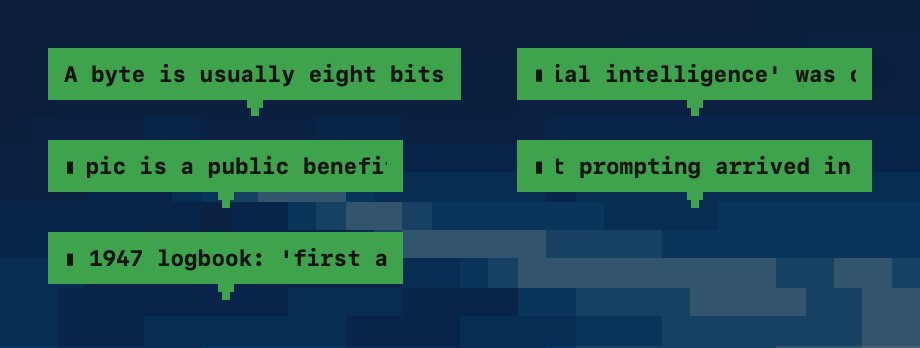
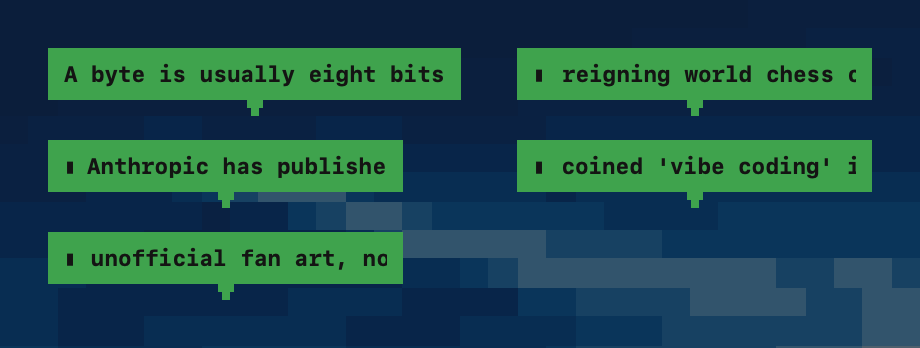
The placements get a voice
The operator's verdict on the first pass: structurally right, editorially flat
— "not quite happy with them as product placements." Three things fix that.

**Twelve facts now wear an emoji.** The pool had exactly none — every emoji in
the app lived in his own voice lines — so the "put in ones with an emoji" ask
meant an editing pass, not a better pick. Edited in place: same lines, same
order, same source notes, no additions, so the mix, dedupe and count tests hold
untouched. The Anthropic pool got the densest treatment, per the ask, and every
edited line stays inside the 69-character duration budget.

**The costume strip has a script.** One caption for ten seconds becomes three
beats, and the middle one is the skate shout — "Tony Clawd 900 🦅", the real
line from the kickflip deck, timed from pop to landing. A character moment
instead of a subtitle. The outer beats are Anthropic facts wearing their new
emoji, each beat's clock restarting at its own zero so a ticker opens on its
first word, and each marquee beat long enough for its line to finish scrolling
— asserted, not hoped. The white crab also switches wiggle → wave, because two
crabs doing the same idle reads as one animation stamped twice.

**Every shown line is real.** The beats test binds the shout to
`Vocab.lines(for: .kickflip)` and the facts to `FunFacts.all`; `renderFacts`
guards the same at render time. The sheets show what he says, not marketing
[…]

diff --git a/Sources/ClaudePet/App/ReelRenderer.swift b/Sources/ClaudePet/App/ReelRenderer.swift
@@ -274,6 +274,8 @@ enum ReelRenderer {
             && renderProps(to: root.appendingPathComponent("props.png"))
             && renderFacts(to: root.appendingPathComponent("facts.png"))
             && renderCostumes(to: root.appendingPathComponent("costumes.gif"))
+            && renderWordmark(to: root.appendingPathComponent("wordmark.png"))
+            && renderSocialPreview(to: root.appendingPathComponent("social-preview.png"))
     }
 
     // MARK: - The hero
@@ -440,15 +442,30 @@ enum ReelRenderer {
     /// up. The long ones are captured mid-travel, because a ticker caught at
     /// its start looks identical to a plain bubble and would prove nothing.
     static func renderFacts(to url: URL) -> Bool {
-        // Frozen offsets chosen so each long line is caught part-way along,
-        // showing different words rather than all starting from the same edge.
+        // Word-aligned freezes. A marquee frozen at an arbitrary instant cuts a
+        // word at the left edge ("pic is a public benefi"), which reads as a
+        // glitch in a product still. Each offset below is the instant the
+        // viewport's left edge lands exactly on a word start:
+        // seconds = (characters before the word) x 6.62pt / 26pt-per-second.
+        // The right edge still cuts — that is what says "this scrolls".
+        //
+        // Lines are drawn from the pools by TEXT, not by index, so a reordered
+        // pool fails the render loudly instead of silently swapping the shot.
         let picked: [(text: String, at: Double)] = [
-            (FunFacts.facts(in: .compSci101).first ?? "A byte is eight bits", 0.4),
-            (FunFacts.facts(in: .claude).first ?? "Claude is named for Shannon", 1.6),
-            (FunFacts.facts(in: .computerScience).first ?? "The first bug was a moth", 3.1),
-            (FunFacts.facts(in: .ai).first ?? "Attention is all you need", 2.2),
-            (FunFacts.facts(in: .aiEngineering).first ?? "Prompts are programs", 4.0),
+            ("A byte is usually eight bits", 0),                                  // plain — sits still
+            ("Anthropic has published Claude's constitution 📜", 0),              // opens on word one
+            ("Claw'd is unofficial fan art, not affiliated with Anthropic 🦀",
+             10 * 6.62 / 26),                                                     // opens on "unofficial"
+            ("Deep Blue beat a reigning world chess champion in 1997 🏆",
+             17 * 6.62 / 26),                                                     // opens on "reigning"
+            ("Andrej Karpathy coined 'vibe coding' in February 2025 ⚡",
+             16 * 6.62 / 26),                                                     // opens on "coined"
         ]
+        // Every line must really be in the pools — the sheet shows what he
+        // says, not marketing copy that resembles it.
+        guard picked.dropFirst().allSatisfy({ FunFacts.all.contains($0.text) }),
+              FunFacts.facts(in: .compSci101).contains(picked[0].text)
+        else { return false }
         let split = (picked.count + 1) / 2
         let columns = [Array(picked.prefix(split)), Array(picked.dropFirst(split))]
         let sheet = HStack(alignment: .top, spacing: 28) {
@@ -473,6 +490,76 @@ enum ReelRenderer {
         }
 
         return SpriteImage.write(SpriteImage.png(of: sheet, scale: 2, isOpaque: true), to: url)
+    }
+
+    // MARK: - The brand
+
+    /// The README's masthead: him, the name, and one sentence, on his sky.
+    ///
+    /// Replaces a plain `<h1>` — a store page opens with a wordmark, not a
+    /// heading. Rendered like every other committed asset (the real rig, the
+    /// real backdrop, byte-reproducible) so the brand is the product rather
+    /// than a graphic that resembles it.
+    static func renderWordmark(to url: URL) -> Bool {
+        let view = ZStack {
+            Backdrop(style: .sky)
+            // A light scrim: the streak crosses the tagline's tail, and white
+            // on the sky's lightest stop is not legible enough for a masthead.
+            Palette.Ocean.abyss.opacity(0.35)
+            HStack(spacing: 22) {
+                PixelCanvasView(buffer: CrabRig.render(
+                                    CrabAnimator.pose(mood: .idle, t: 0, flourishes: false)),
+                                seamBleed: 0)
+                    .frame(width: 96, height: 96)
+                VStack(alignment: .leading, spacing: 4) {
+                    Text("Claude Pet")
+                        .font(.system(size: 52, weight: .heavy, design: .rounded))
+                        .foregroundStyle(.white)
+                    Text("Your Claude Code sessions, as a crab on your desk")
+                        .font(.system(size: 17, weight: .medium, design: .rounded))
+                        .foregroundStyle(.white.opacity(0.82))
+                }
+            }
+        }
+        .frame(width: 640, height: 130)
+        return SpriteImage.write(SpriteImage.png(of: view, scale: 2, isOpaque: true), to: url)
+    }
+
+    /// The 1280x640 card social sites unfurl when the repo link is pasted.
+    ///
+    /// GitHub has no API for setting it — the operator uploads this at
+    /// Settings → Social preview. Without one, a LinkedIn or HN paste shows a
+    /// grey auto-card, which is the first impression most people will ever get
+    /// of the project.
+    ///
+    /// The cast is frozen mid-kickflip on purpose: a still has one instant to
+    /// say "this thing is alive", and the trick at its peak is that instant.
+    static func renderSocialPreview(to url: URL) -> Bool {
+        let midFlip = 4.6   // kickflip onset 3.2 + 1.4: board up, eyes squinted
+        let view = ZStack {
+            Backdrop(style: .sky)
+            VStack(spacing: 10) {
+                Text("Claude Pet")
+                    .font(.system(size: 64, weight: .heavy, design: .rounded))
+                    .foregroundStyle(.white)
+                Text("Your Claude Code sessions, as a crab on your desk")
+                    .font(.system(size: 20, weight: .medium, design: .rounded))
+                    .foregroundStyle(.white.opacity(0.82))
+                HStack(spacing: 8) {
+                    ForEach(Array(costumeCast.enumerated()), id: \.offset) { _, member in
+                        PixelCanvasView(
+                            buffer: CrabRig.render(costumePose(member, at: midFlip),
+                                                   costume: member.costume),
+                            inkOverrides: CostumeStyle.blendedOverrides(from: member.costume,
+                                                                       to: member.costume, u: 1),
+                            seamBleed: 0)
+                            .frame(width: 128, height: 128)
+                    }
+                }
+            }
+        }
+        .frame(width: 640, height: 320)
+        return SpriteImage.write(SpriteImage.png(of: view, scale: 2, isOpaque: true), to: url)
     }
 
     // MARK: - The wardrobe
@@ -502,12 +589,29 @@ enum ReelRenderer {
     static let costumeCast: [(costume: Costume, flourish: CrabAnimator.Flourish, onsets: [Double])] = [
         (.ninja,  .wiggle,   [1.2, 6.4]),
         (.gundam, .kickflip, [3.2]),
-        (.white,  .wiggle,   [2.1, 7.6]),
+        // A wave, not a second wiggle: two crabs doing the same idle reads as
+        // one animation stamped twice, which is the opposite of a wardrobe.
+        (.white,  .wave,     [1.8, 7.4]),
     ]
 
-    /// The line above them. Fixed rather than dealt: a committed asset cannot
-    /// depend on a draw counter and stay byte-reproducible.
-    static let costumeLine = "Claude's constitution cites the UN Declaration"
+    /// What the shared bubble says, beat by beat.
+    ///
+    /// Fixed rather than dealt — a committed asset cannot depend on a draw
+    /// counter and stay byte-reproducible — but no longer one caption for ten
+    /// seconds. The middle beat is the SKATE SHOUT, timed over the kickflip,
+    /// so the strip has a character moment instead of a subtitle; the outer
+    /// beats are Anthropic facts wearing their emoji.
+    ///
+    /// Each marquee beat is long enough for its line to finish scrolling
+    /// (`readSeconds` against the window — asserted in `CostumeStripTests`),
+    /// and each beat's clock restarts at its own zero so a ticker opens on its
+    /// first word rather than mid-sentence. `DemoMode`'s hero beats work the
+    /// same way.
+    static let costumeBeats: [(text: String, from: Double, to: Double)] = [
+        ("Anthropic was founded in 2021 🧡", 0.0, 3.2),
+        ("Tony Clawd 900 🦅", 3.2, 6.2),
+        ("Claude reads images as well as text 👀", 6.2, 10.0),
+    ]
 
     static func renderCostumes(to url: URL) -> Bool {
         // Counted rather than accumulated — same reason as `renderHero`.
@@ -544,12 +648,13 @@ enum ReelRenderer {
     static func costumeScene(at elapsed: Double) -> some View {
         ZStack {
             Backdrop(style: .sky)
+            let beat = costumeBeats.last { elapsed >= $0.from } ?? costumeBeats[0]
             VStack(spacing: 0) {
-                ThoughtBubble(text: costumeLine,
+                ThoughtBubble(text: beat.text,
                               tool: nil,
                               mood: .idle,
-                              style: ActivityCoordinator.bubbleStyle(for: costumeLine),
-                              frozenTime: elapsed)
+                              style: ActivityCoordinator.bubbleStyle(for: beat.text),
+                              frozenTime: elapsed - beat.from)
                 HStack(spacing: 0) {
                     ForEach(Array(costumeCast.enumerated()), id: \.offset) { _, member in
                         PixelCanvasView(

diff --git a/Sources/ClaudePet/Support/FunFacts.swift b/Sources/ClaudePet/Support/FunFacts.swift
@@ -72,7 +72,7 @@ public enum FunFacts {
             // Harvard Mark II log, 9 Sept 1947; the moth is at the Smithsonian.
             // NOT "the first computer bug": "bug" was engineering slang decades
             // earlier, which is exactly why the log entry makes the joke.
-            "A moth in a 1947 logbook: 'first actual case of bug being found'",
+            "A moth in a 1947 logbook: 'first actual case of bug being found' 🐛",
             // Note G of her translation of Menabrea, 1843. Says what she
             // demonstrably published — "the first algorithm" is contested, since
             // Babbage wrote programs for the engine in the 1830s.
@@ -87,7 +87,7 @@ public enum FunFacts {
             "A 1968 NATO conference popularized 'software engineering'",
             // Kernighan's Bell Labs tutorial for the language B. The year is
             // cited variously as 1972 and 1973, so it is left out.
-            "'hello, world' comes from Kernighan's Bell Labs B tutorial",
+            "'hello, world' comes from Kernighan's Bell Labs B tutorial 👋",
             // "A Mathematical Theory of Communication", 1948.
             "Claude Shannon founded information theory in a 1948 paper",
             // Engelbart's demo at the Fall Joint Computer Conference, San
@@ -124,14 +124,14 @@ public enum FunFacts {
             // "Computing Machinery and Intelligence", 1950.
             "Turing proposed the imitation game in 1950",
             // "Attention Is All You Need", 2017.
-            "The transformer arrived in a 2017 paper about attention",
+            "The transformer arrived in a 2017 paper about attention 🤖",
             // Described in the 1970s (Linnainmaa, Werbos), popularized by
             // Rumelhart, Hinton & Williams in 1986.
             "Backpropagation was described in the 1970s, popularized in 1986",
             // The 1997 rematch in New York: Deep Blue took it 3.5-2.5 from
             // Garry Kasparov. "a reigning world champion", indefinite, because
             // the title was split at the time — Karpov held FIDE's.
-            "Deep Blue beat a reigning world chess champion in 1997",
+            "Deep Blue beat a reigning world chess champion in 1997 🏆",
             // Fixed history: the hardware existed to rasterize triangles long
             // before anyone ran a network on it.
             "GPUs were built for graphics before they trained networks",
@@ -161,19 +161,19 @@ public enum FunFacts {
         case .claude: [
             // Anthropic's own public description.
             "Anthropic is a public benefit corporation",
-            "Anthropic was founded in 2021",
+            "Anthropic was founded in 2021 🧡",
             "Anthropic's founders included former OpenAI researchers",
             // The Constitutional AI paper, 2022.
             "Constitutional AI trains a model against written principles",
             // Past tense: there have been successive versions, so the present
             // tense would assert one current definitive document.
-            "Anthropic has published Claude's constitution",
+            "Anthropic has published Claude's constitution 📜",
             // The document's actual name is the UNIVERSAL Declaration of Human
             // Rights. "cites" rather than "draws on" — it is quoted, not merely
             // influenced.
             "Claude's constitution cites the Universal Declaration of Human Rights",
             // MCP, open-sourced by Anthropic.
-            "Anthropic open-sourced the Model Context Protocol",
+            "Anthropic open-sourced the Model Context Protocol 🔌",
             // MCP's own documentation.
             "MCP is an open standard for connecting models to tools and data",
             // Past tense on purpose: it launched in the terminal and has since
@@ -195,11 +195,11 @@ public enum FunFacts {
             // Tool use: the model emits a structured request, the host runs it.
             "Claude can call tools by asking for them in a structured way",
             // General AI-safety usage of the term.
-            "Red-teaming a model means trying hard to make it misbehave",
+            "Red-teaming a model means trying hard to make it misbehave 😈",
             // This repo's README and LICENSE. It says only what those say —
             // an earlier draft asserted the crab was Anthropic's intellectual
             // property, which is not something this project can vouch for.
-            "Claw'd is unofficial fan art, not affiliated with Anthropic",
+            "Claw'd is unofficial fan art, not affiliated with Anthropic 🦀",
             // The Constitutional AI paper, 2022 — subtitled "Harmlessness from
             // AI Feedback". "as well as", because human preference data still
             // supplies helpfulness.
@@ -212,7 +212,7 @@ public enum FunFacts {
             // present-tense claim about a practice ages the day it changes.
             "Anthropic has published the system prompts for its Claude apps",
             // Multimodal input. General and durable.
-            "Claude reads images as well as text",
+            "Claude reads images as well as text 👀",
             // The correction of the popular retelling: in a BPE vocabulary
             // common words like "the" and "and" ARE whole tokens, and a token
             // can just as easily be punctuation or whitespace. "a piece of a
@@ -309,7 +309,7 @@ public enum FunFacts {
             // Models", 2022.
             "ReAct interleaved reasoning and tool use in a 2022 paper",
             // General and durable — true of every embedding model there is.
-            "An embedding turns text into a list of numbers",
+            "An embedding turns text into a list of numbers 🧠",
             // The settled framing: untrusted text reaching a model is an
             // injection, not a mistake in the wording.
             "Prompt injection is a security problem, not a typo",
@@ -332,7 +332,7 @@ public enum FunFacts {
         // three years.
         case .vibeCoding: [
             // Karpathy's post, February 2025. The coinage is uncontested.
-            "Andrej Karpathy coined 'vibe coding' in February 2025",
+            "Andrej Karpathy coined 'vibe coding' in February 2025 ⚡",
             // Attributed on purpose. The DICTIONARY sense (Collins,
             // Merriam-Webster) is just prompting an AI in natural language and
             // does not require skipping the read; not-reading is the coiner's

diff --git a/Tests/ClaudePetTests/CostumeStripTests.swift b/Tests/ClaudePetTests/CostumeStripTests.swift
@@ -98,13 +98,41 @@ struct CostumeStripTests {
         }
     }
 
-    /// The line above them is fixed, not dealt. A committed asset that drew
-    /// from a cursor would render differently depending on what the counter had
-    /// been doing, which is the one thing a byte-compared file cannot survive.
-    @Test("The strip's line is a constant, and it scrolls")
-    func theLineIsFixed() {
-        #expect(!ReelRenderer.costumeLine.isEmpty)
-        #expect(ActivityCoordinator.bubbleStyle(for: ReelRenderer.costumeLine) == .marquee,
-                "a plain line would show the whole sentence in frame one and never move")
+    /// The bubble's script. Three constants rather than a cursor — a committed
+    /// asset that drew from a deck would render differently depending on what
+    /// the counter had been doing — and every word of it is REAL: the facts
+    /// come from the pools and the shout from the skate deck, so the strip
+    /// shows things he actually says rather than marketing copy shaped like
+    /// them.
+    @Test("The beats tile the clip, and every line is one he really says")
+    func theBeatsAreReal() {
+        let beats = ReelRenderer.costumeBeats
+        #expect(beats.first?.from == 0)
+        #expect(beats.last?.to == ReelRenderer.costumeSeconds)
+        for (a, b) in zip(beats, beats.dropFirst()) {
+            #expect(a.to == b.from, "a gap between \"\(a.text)\" and \"\(b.text)\"")
+        }
+        // The middle beat is the character moment: a real skate shout, and it
+        // covers the kickflip from pop to landing.
+        let shout = beats[1]
+        #expect(Vocab.lines(for: .kickflip).contains(shout.text),
+                "\"\(shout.text)\" is not a line he shouts after a trick")
+        let trick = ReelRenderer.costumeCast[1]
+        let onset = try! #require(trick.onsets.first)
+        #expect(shout.from <= onset && onset + trick.flourish.duration <= shout.to,
+                "the shout does not cover the kickflip")
+        // The outer beats are facts from the pools, wearing their emoji.
+        for beat in [beats[0], beats[2]] {
+            #expect(FunFacts.all.contains(beat.text),
+                    "\"\(beat.text)\" is not in the fact pools")
+        }
+        // A marquee beat must be long enough for its line to finish scrolling —
+        // an unfinished sentence at a beat swap is the glitch this exists to
+        // avoid.
+        for beat in beats where ActivityCoordinator.bubbleStyle(for: beat.text) == .marquee {
+            let read = MarqueeText.readSeconds(for: beat.text, width: MarqueeText.viewport)
+            #expect(read <= beat.to - beat.from,
+                    "\"\(beat.text)\" needs \(read)s and its beat is \(beat.to - beat.from)s")
+        }
     }
 }

diff --git a/README.md b/README.md
@@ -1,7 +1,5 @@
 <div align="center">
-  <img src="docs/media/icon-1024.png" width="110" alt="Claude Pet">
-  <h1>Claude Pet 🦀</h1>
-  <p><strong>Claw'd sits on your desktop and shows you what Claude Code is doing.</strong></p>
+  <img src="docs/media/wordmark.png" width="100%" alt="Claude Pet — your Claude Code sessions, as a crab on your desk">
   <img src="docs/media/desktop.gif" width="100%" alt="Claw'd cycling through every state — idle, thinking, working, cooking, waiting on you, done, and the status ticker">
   <p><em>Every state, in order. Rendered from the sprite rig, not screen-recorded.</em></p>
   <p>
